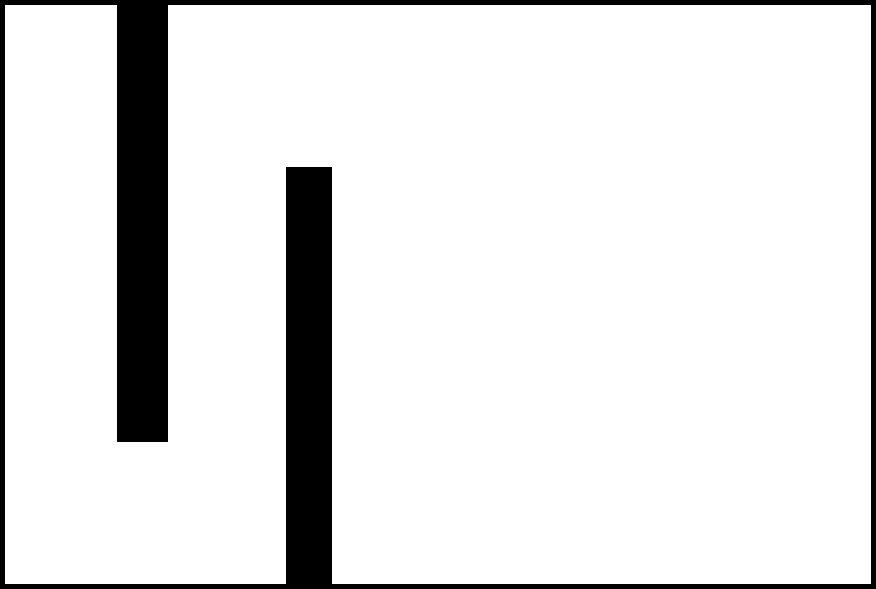
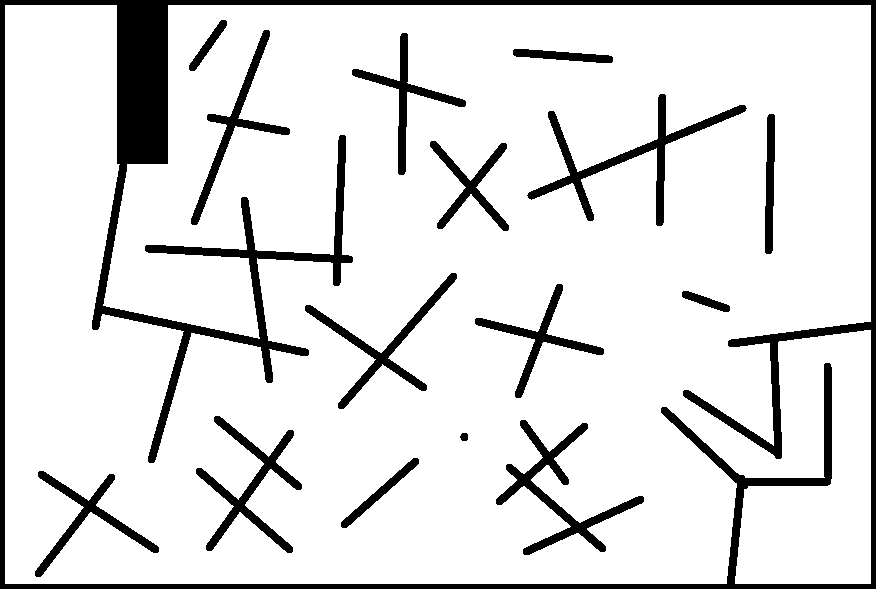
the world is fixated changed Ants.py add speed, pheromone deposition index, fixet startPosition changed Pheromone.py add PheromoneWar

diff --git a/Ants.py b/Ants.py
@@ -5,6 +5,9 @@ import math
 
 
 class Ants:
+    minSpeed = 0.2
+    maxSpeed = 0.3
+
     def __init__(self, App, countAnt, pointSize=30, startPosition=(0, 0)):
         self.App = App
         self.countAnts = countAnt
@@ -39,16 +42,31 @@ class Ants:
         self.ants.buffer(indexData, "1f", ["in_index"])
         self.buffers.append((self.ants.get_buffer_by_name("in_index"), "1f"))
 
-        positionData = np.array(np.zeros(self.countAnts * 2),
-                                dtype=np.float32)
+        if self.startPosition == (0, 0):
+            positionData = np.array(np.zeros(self.countAnts * 2),
+                                    dtype=np.float32)
+        else:
+            positionData = np.array(self.startPosition * self.countAnts,
+                                    dtype=np.float32).T.reshape((self.countAnts * 2,))
         self.ants.buffer(positionData, "2f", ["in_position"])
         self.buffers.append((self.ants.get_buffer_by_name("in_position"), "2f"))
 
-        angelData = np.random.random((self.countAnts,)) * 2 * math.pi
+        angelData = np.random.random(self.countAnts) * 2 * math.pi
         directionData = np.array([np.cos(angelData), np.sin(angelData)],
                                  dtype=np.float32).T.reshape((self.countAnts * 2,))
         self.ants.buffer(directionData, "2f", ["in_direction"])
         self.buffers.append((self.ants.get_buffer_by_name("in_direction"), "2f"))
+
+        speedData = np.array(np.random.random(self.countAnts) *
+                             (Ants.maxSpeed - Ants.minSpeed) + Ants.minSpeed,
+                             dtype=np.float32)
+        self.ants.buffer(speedData, "1f", ["in_speed"])
+        self.buffers.append((self.ants.get_buffer_by_name("in_speed"), "1f"))
+
+        pheromoneData = np.array(np.zeros(self.countAnts),
+                                 dtype=np.float32)
+        self.ants.buffer(pheromoneData, "1f", ["in_pheromone"])
+        self.buffers.append((self.ants.get_buffer_by_name("in_pheromone"), "1f"))
 
     def set_newResolution(self):
         self.App.set_uniform(self.ants_graphic_prog, "resolution", self.App.window_size)

diff --git a/Pheromone.py b/Pheromone.py
@@ -6,7 +6,7 @@ from moderngl_window.opengl.vao import VAO, BufferInfo
 class Pheromone:
     countPheromone = 0
 
-    def __init__(self, App, pointSize=5, name=None):
+    def __init__(self, App, pointSize=5, name=None, isPheromoneWar=False):
         Pheromone.countPheromone += 1
 
         self.App = App
@@ -15,6 +15,7 @@ class Pheromone:
             self.name = name
         else:
             self.name = f"pheromone {Pheromone.countPheromone}"
+        self.isPheromoneWar = isPheromoneWar
 
         self.texture = self.App.ctx.texture(self.App.window_size, 3)
         self.texture.use(Pheromone.countPheromone)
@@ -36,6 +37,8 @@ class Pheromone:
         finally:
             vertex_shader.close()
             fragment_shader.close()
+        self.prog["isPheromoneWar"] = self.isPheromoneWar
+        self.prog["pheromone"] = Pheromone.countPheromone - 1
 
     def update(self):
         pass

diff --git a/App.py b/App.py
@@ -9,7 +9,7 @@ from Pheromone import Pheromone
 
 
 class App(mglw.WindowConfig):
-    log_level = logging.CRITICAL
+    log_level = logging.INFO
     window_size = 1600, 900
     resource_dir = 'shaders'
     fullscreen = False
@@ -35,7 +35,7 @@ class App(mglw.WindowConfig):
             fragment_shader='mapp_fragment_shader.glsl')
         self.set_uniform(self.mapp_prog, "mappTexture", 0)
 
-        self.ants = Ants(self, 100000, pointSize=5)
+        self.ants = Ants(self, 100000, pointSize=5, startPosition=(-0.8, 0.8))
 
         self.pheromone = Pheromone(self)
 
@@ -63,7 +63,7 @@ class App(mglw.WindowConfig):
         self.pheromone.update()
 
     def render(self, time, frame_time):
-        if frame_time > 0.0625:
+        if frame_time > 0.03:
             frame_time = 0
 
         self.ctx.clear()
